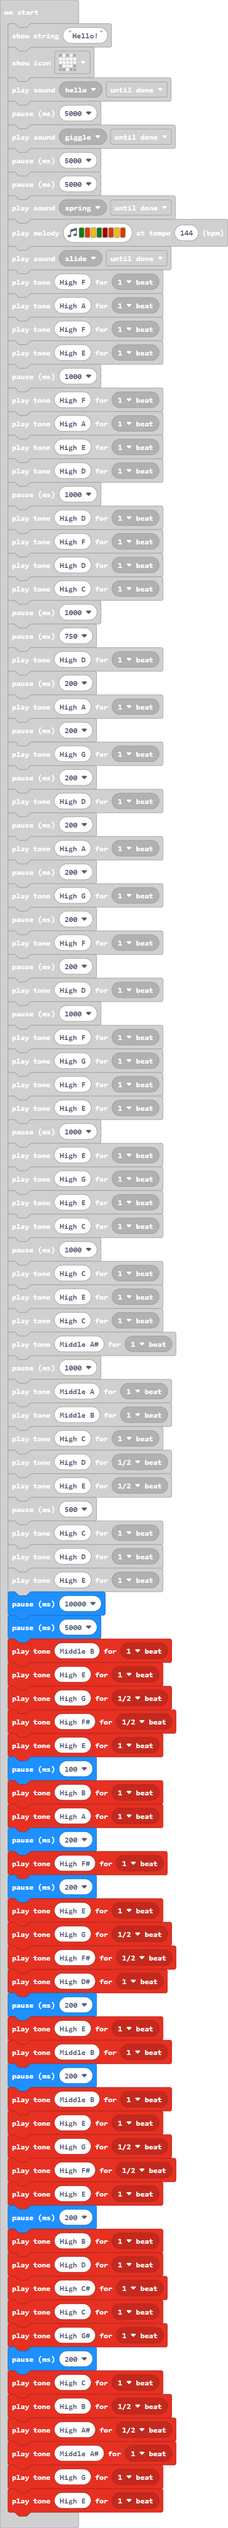
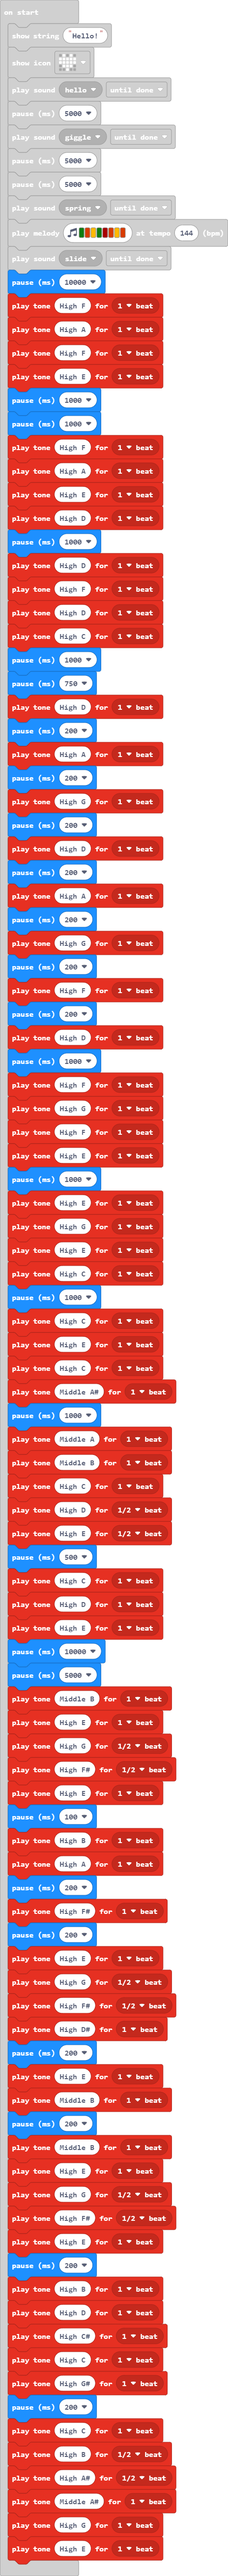
Update main.blocks, main.ts

diff --git a/main.ts b/main.ts
@@ -8,10 +8,12 @@ basic.pause(5000)
 music.playSoundEffect(music.builtinSoundEffect(soundExpression.spring), SoundExpressionPlayMode.UntilDone)
 music.playMelody("G B A G C5 B A B ", 144)
 music.playSoundEffect(music.builtinSoundEffect(soundExpression.slide), SoundExpressionPlayMode.UntilDone)
+basic.pause(10000)
 music.playTone(698, music.beat(BeatFraction.Whole))
 music.playTone(880, music.beat(BeatFraction.Whole))
 music.playTone(698, music.beat(BeatFraction.Whole))
 music.playTone(659, music.beat(BeatFraction.Whole))
+basic.pause(1000)
 basic.pause(1000)
 music.playTone(698, music.beat(BeatFraction.Whole))
 music.playTone(880, music.beat(BeatFraction.Whole))
